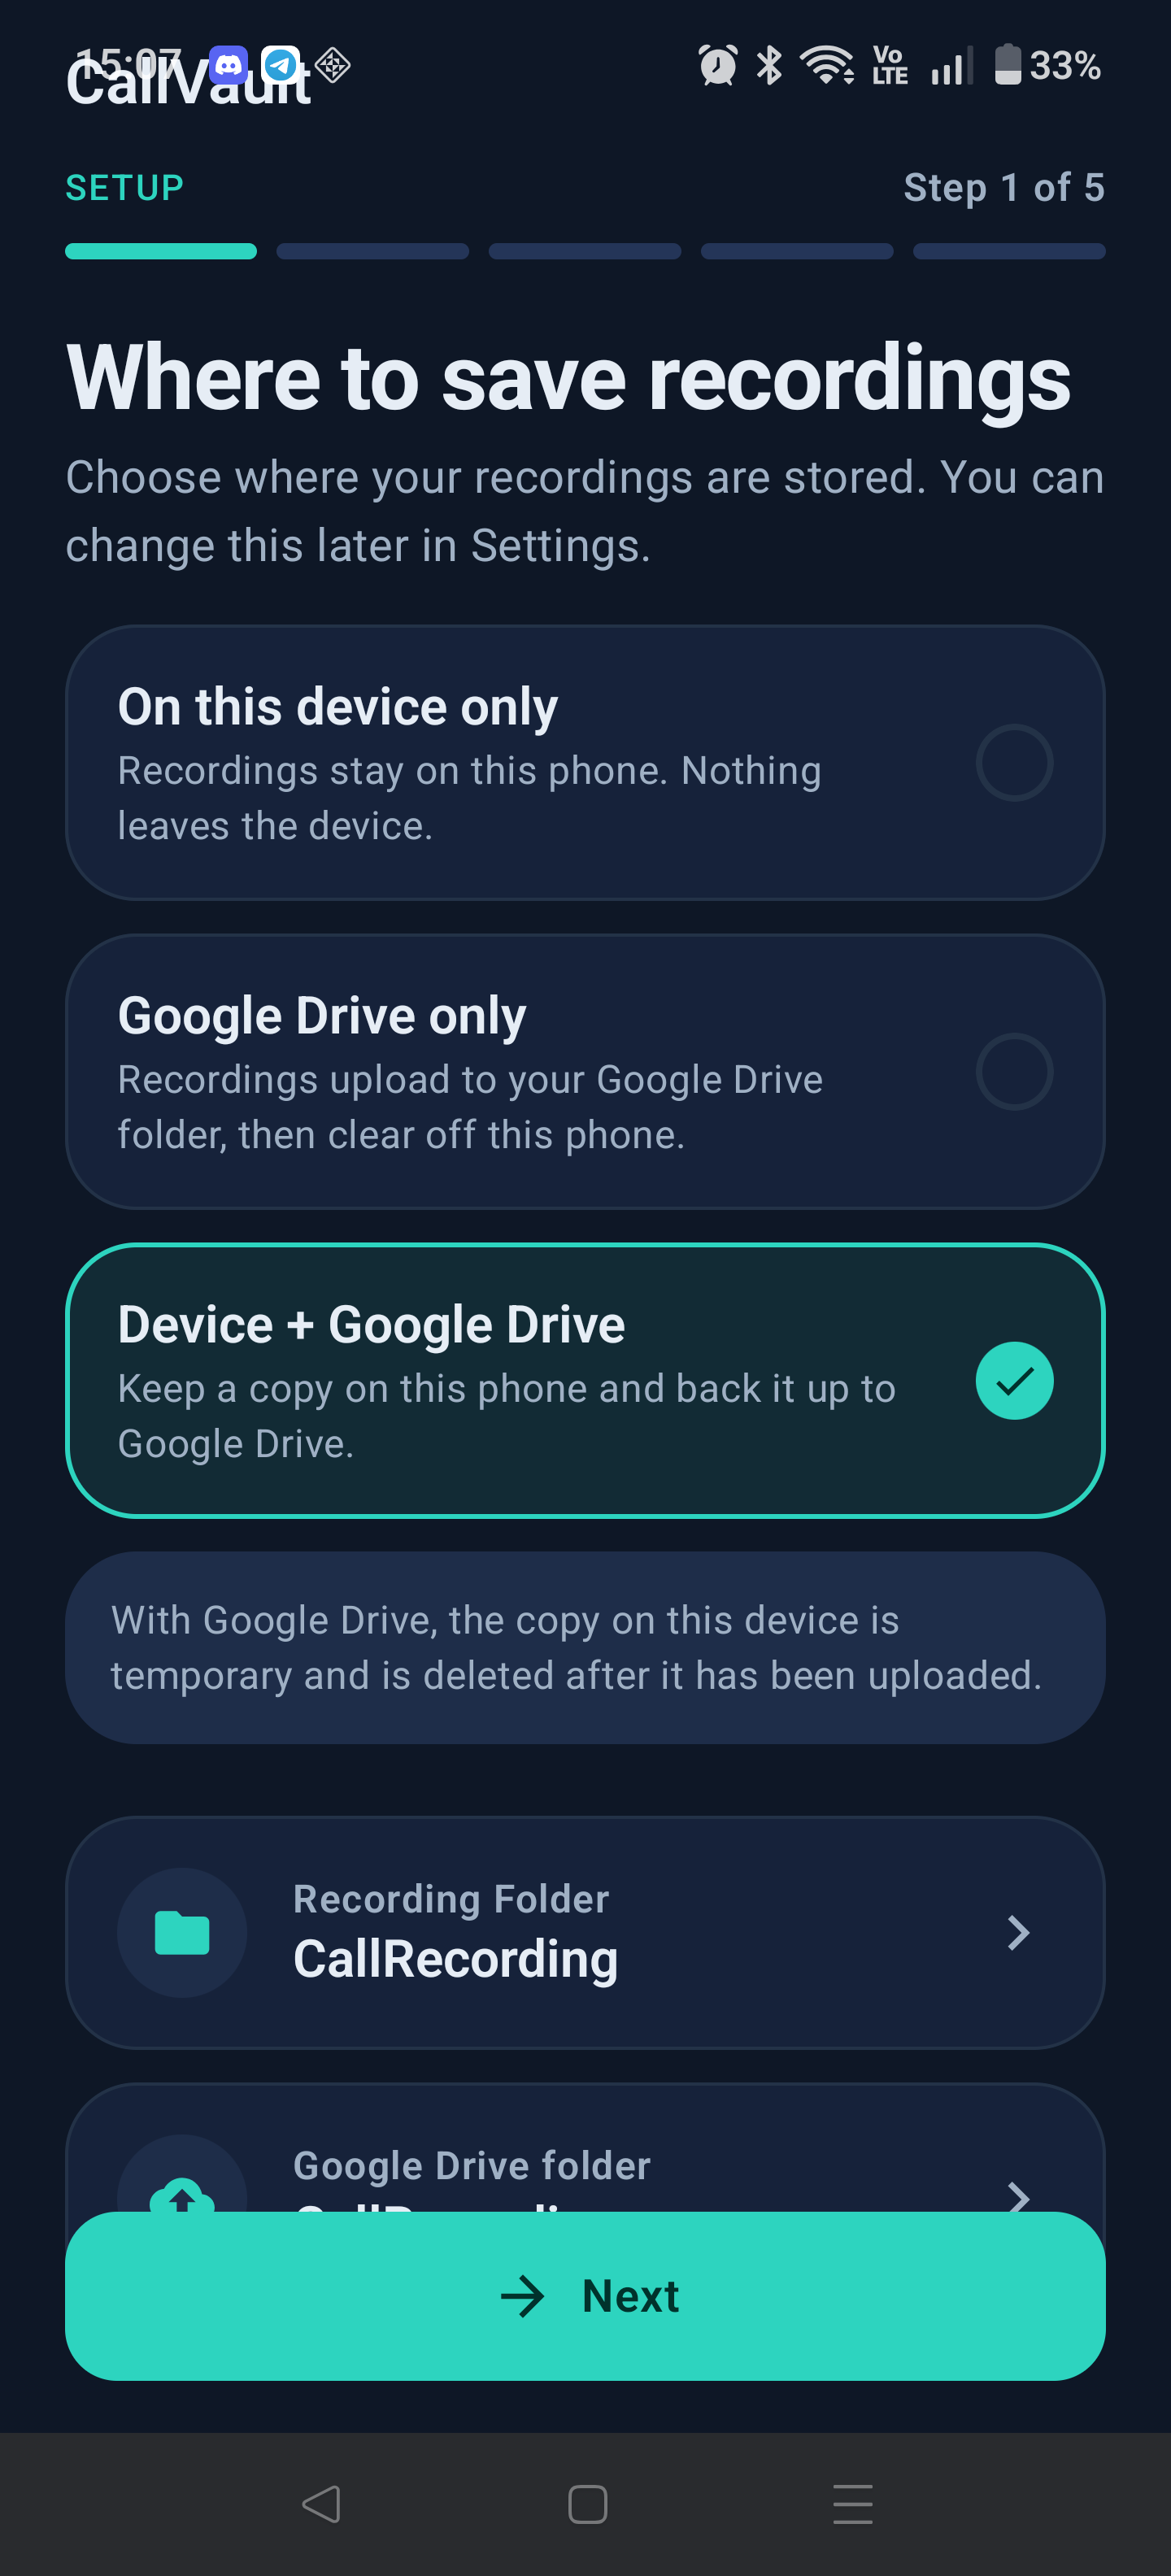
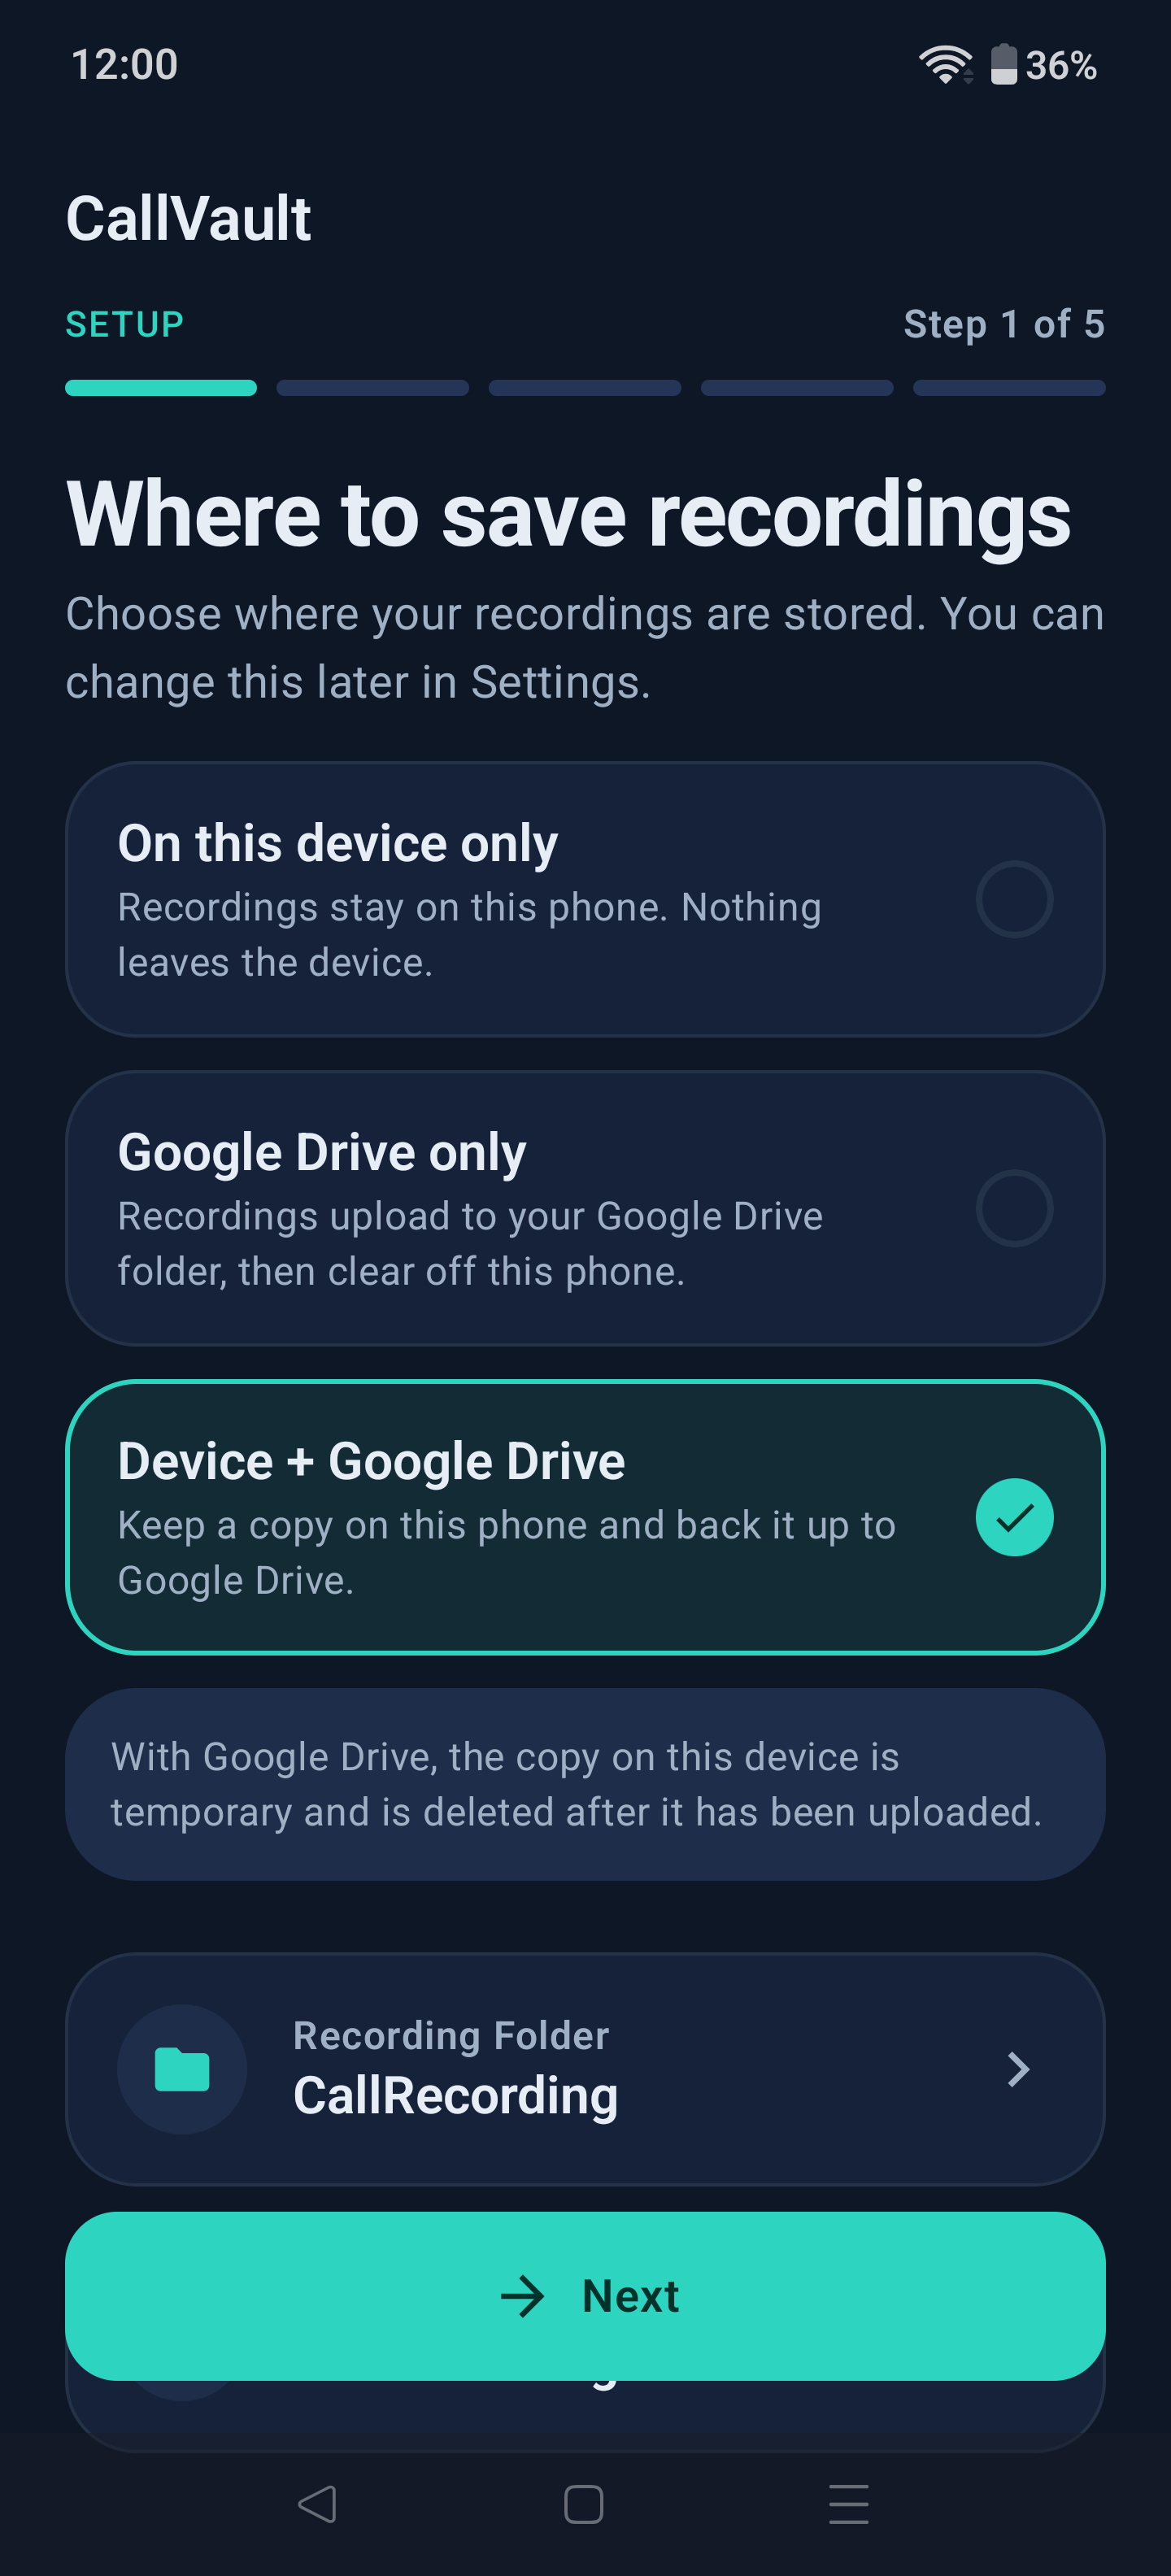
fix(ui): edge-to-edge + title spacing, "Active" status, recordings tweaks
- Draw edge-to-edge (navy behind transparent system bars); add status-bar
  padding to the screen title so it no longer crowds the notification bar.
- Status pill reads "Active" (was "Protected").
- BOTH source badge is icons-only (drop the truncating "Device + Drive" text);
  expanded copies show a Device/Drive icon next to each tag.
- Recordings filter chips fit two-per-line (Contact + Date no longer wrap to a
  third line). Fix a stray "ShizuCallRecorder" comment in MainActivity.
- Refresh README screenshots (clean status bar).

(cherry picked from commit 82825b59dc2561a3489bb9d3b918fe5dc0678c5c)

diff --git a/app/src/main/java/com/baba/callvault/ui/screens/HomeScreen.kt b/app/src/main/java/com/baba/callvault/ui/screens/HomeScreen.kt
@@ -332,21 +332,24 @@ private fun RecordingFilterBar(
     )
     val directionValueLabel = directionOptions.first { it.value == directionFilter }.label
 
-    // Contact facet: "All contacts" + one entry per distinct contact key (already A→Z sorted).
+    // Contact facet: dropdown keeps the full "All contacts" wording; the chip itself shows the
+    // compact "All" so Contact + Date fit together on one line.
     val allContactsLabel = stringResource(R.string.home_filter_contact_all)
+    val allContactsShort = stringResource(R.string.home_filter_contact_all_short)
     val contactOptions = buildList<FilterOption<String?>> {
         add(FilterOption(null, allContactsLabel))
         availableContacts.forEach { add(FilterOption(it, it)) }
     }
-    val contactValueLabel = contactFilter ?: allContactsLabel
+    val contactValueLabel = contactFilter ?: allContactsShort
 
-    // Date facet: "All dates" + one entry per distinct day key (already newest-first).
+    // Date facet: dropdown keeps "All dates"; the chip itself shows the compact "All".
     val allDatesLabel = stringResource(R.string.home_filter_date_all)
+    val allDatesShort = stringResource(R.string.home_filter_date_all_short)
     val dateOptions = buildList<FilterOption<String?>> {
         add(FilterOption(null, allDatesLabel))
         availableDates.forEach { add(FilterOption(it, it)) }
     }
-    val dateValueLabel = dateFilter ?: allDatesLabel
+    val dateValueLabel = dateFilter ?: allDatesShort
 
     FlowRow(
         modifier = Modifier.fillMaxWidth(),
@@ -495,14 +498,18 @@ private fun SourceBadge(source: RecordingSource) {
                 modifier = Modifier.size(12.dp)
             )
         }
-        Spacer(Modifier.width(5.dp))
-        Text(
-            text = label,
-            style = MaterialTheme.typography.labelSmall,
-            color = color,
-            maxLines = 1,
-            overflow = TextOverflow.Ellipsis
-        )
+        // BOTH: show only the two glyphs (no text — it truncated to "Dev…").
+        // Single-source rows keep their text label alongside the icon.
+        if (source != RecordingSource.BOTH) {
+            Spacer(Modifier.width(5.dp))
+            Text(
+                text = label,
+                style = MaterialTheme.typography.labelSmall,
+                color = color,
+                maxLines = 1,
+                overflow = TextOverflow.Ellipsis
+            )
+        }
     }
 }
 
@@ -727,6 +734,7 @@ private fun RecordingRow(
             Spacer(Modifier.height(12.dp))
             item.localUri?.let { uri ->
                 CopySubEntry(
+                    source = RecordingSource.LOCAL,
                     label = stringResource(R.string.home_copy_device),
                     sizeBytes = item.localSizeBytes,
                     uri = uri,
@@ -743,6 +751,7 @@ private fun RecordingRow(
             if (item.localUri != null && item.driveUri != null) Spacer(Modifier.height(8.dp))
             item.driveUri?.let { uri ->
                 CopySubEntry(
+                    source = RecordingSource.DRIVE,
                     label = stringResource(R.string.home_copy_drive),
                     sizeBytes = item.driveSizeBytes,
                     uri = uri,
@@ -767,6 +776,7 @@ private fun RecordingRow(
  */
 @Composable
 private fun CopySubEntry(
+    source: RecordingSource,
     label: String,
     sizeBytes: Long?,
     uri: Uri,
@@ -817,6 +827,18 @@ private fun CopySubEntry(
                 }
             }
             Spacer(Modifier.width(12.dp))
+            // Source glyph to the left of the Device/Drive tag.
+            Icon(
+                imageVector = if (source == RecordingSource.DRIVE) {
+                    Icons.Filled.Cloud
+                } else {
+                    Icons.Filled.Smartphone
+                },
+                contentDescription = null,
+                tint = MaterialTheme.colorScheme.onSurfaceVariant,
+                modifier = Modifier.size(16.dp)
+            )
+            Spacer(Modifier.width(6.dp))
             Text(
                 text = label,
                 style = MaterialTheme.typography.bodyMedium,

diff --git a/app/src/main/java/com/baba/callvault/MainActivity.kt b/app/src/main/java/com/baba/callvault/MainActivity.kt
@@ -10,18 +10,21 @@ package com.baba.callvault
 
 import android.os.Bundle
 import androidx.activity.compose.setContent
+import androidx.activity.enableEdgeToEdge
 import androidx.appcompat.app.AppCompatActivity
 
 /**
- * MainActivity is the single Android Activity entry point for ShizuCallRecorder.
+ * MainActivity is the single Android Activity entry point for CallVault.
  * This is called when Android want to show the application UI to the user.
  *
- * Its **only** responsibility is to attach the Compose content tree to the window.
+ * Its **only** responsibility is to attach the Compose content tree to the window
+ * and draw edge-to-edge (the navy background extends behind the transparent system bars).
  *
  */
 class MainActivity : AppCompatActivity() {
     override fun onCreate(savedInstanceState: Bundle?) {
         super.onCreate(savedInstanceState)
+        enableEdgeToEdge()
         setContent {
             AppNavigationScreen()
         }

diff --git a/app/src/main/java/com/baba/callvault/ui/common/CvComponents.kt b/app/src/main/java/com/baba/callvault/ui/common/CvComponents.kt
@@ -22,6 +22,7 @@ import androidx.compose.foundation.layout.fillMaxWidth
 import androidx.compose.foundation.layout.height
 import androidx.compose.foundation.layout.heightIn
 import androidx.compose.foundation.layout.padding
+import androidx.compose.foundation.layout.statusBarsPadding
 import androidx.compose.foundation.layout.size
 import androidx.compose.foundation.layout.width
 import androidx.compose.foundation.shape.CircleShape
@@ -71,7 +72,8 @@ fun CvScaffold(
             Row(
                 modifier = Modifier
                     .fillMaxWidth()
-                    .padding(start = if (onBack != null) 4.dp else 20.dp, end = 8.dp, top = 14.dp, bottom = 10.dp),
+                    .statusBarsPadding()
+                    .padding(start = if (onBack != null) 4.dp else 20.dp, end = 8.dp, top = 16.dp, bottom = 10.dp),
                 verticalAlignment = Alignment.CenterVertically,
             ) {
                 if (onBack != null) {